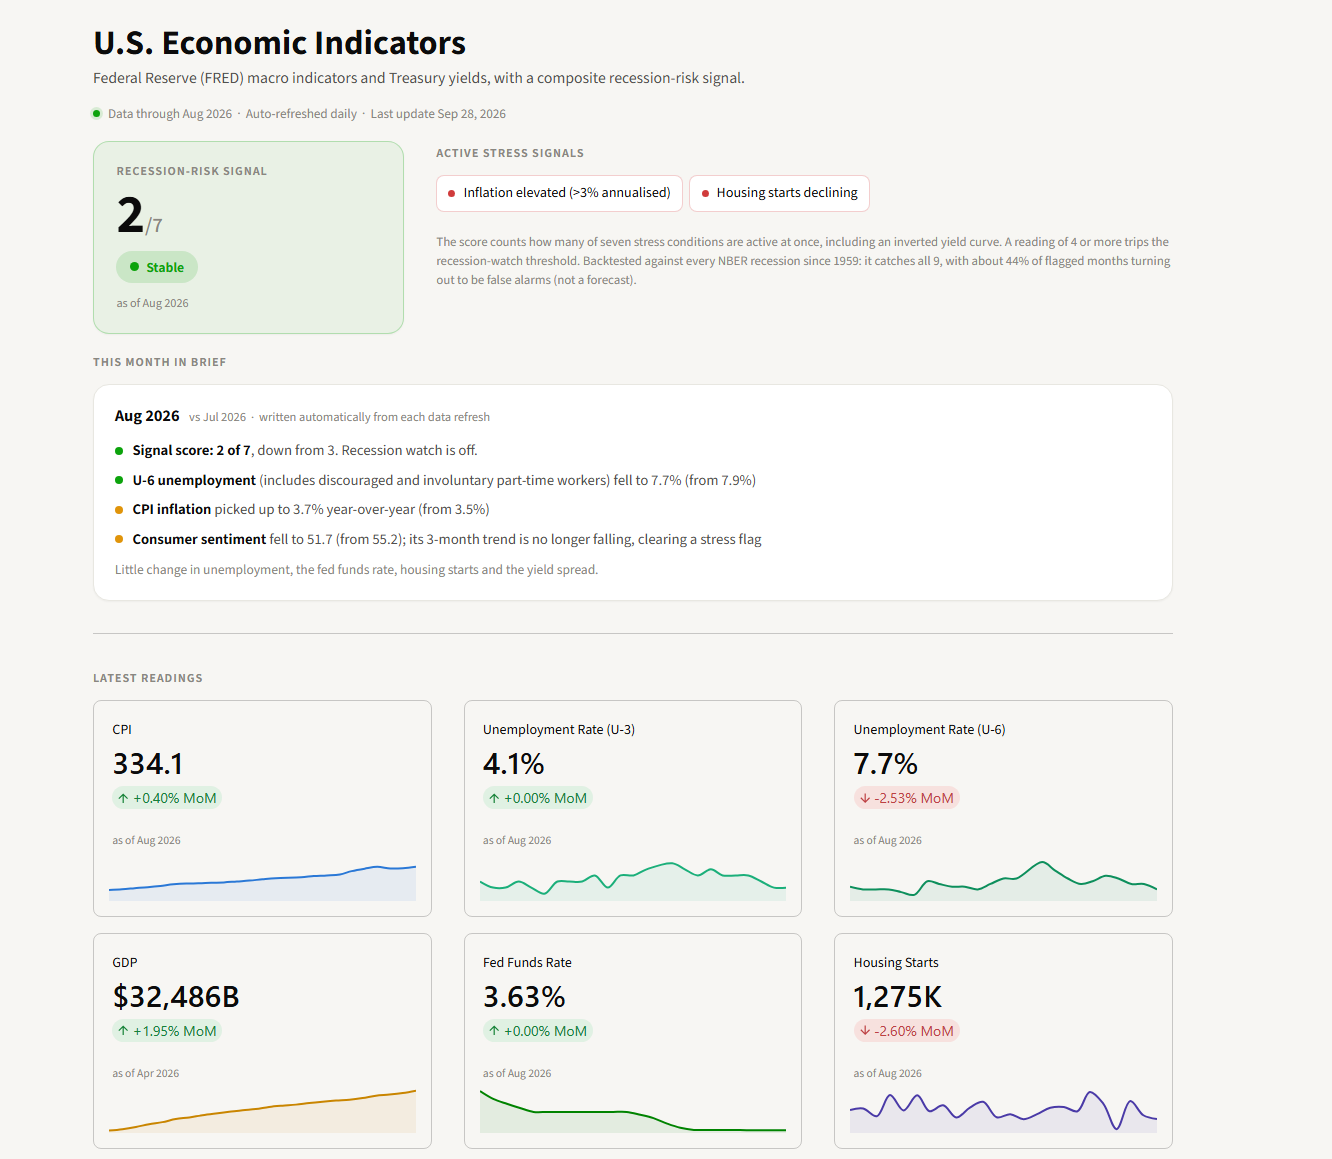
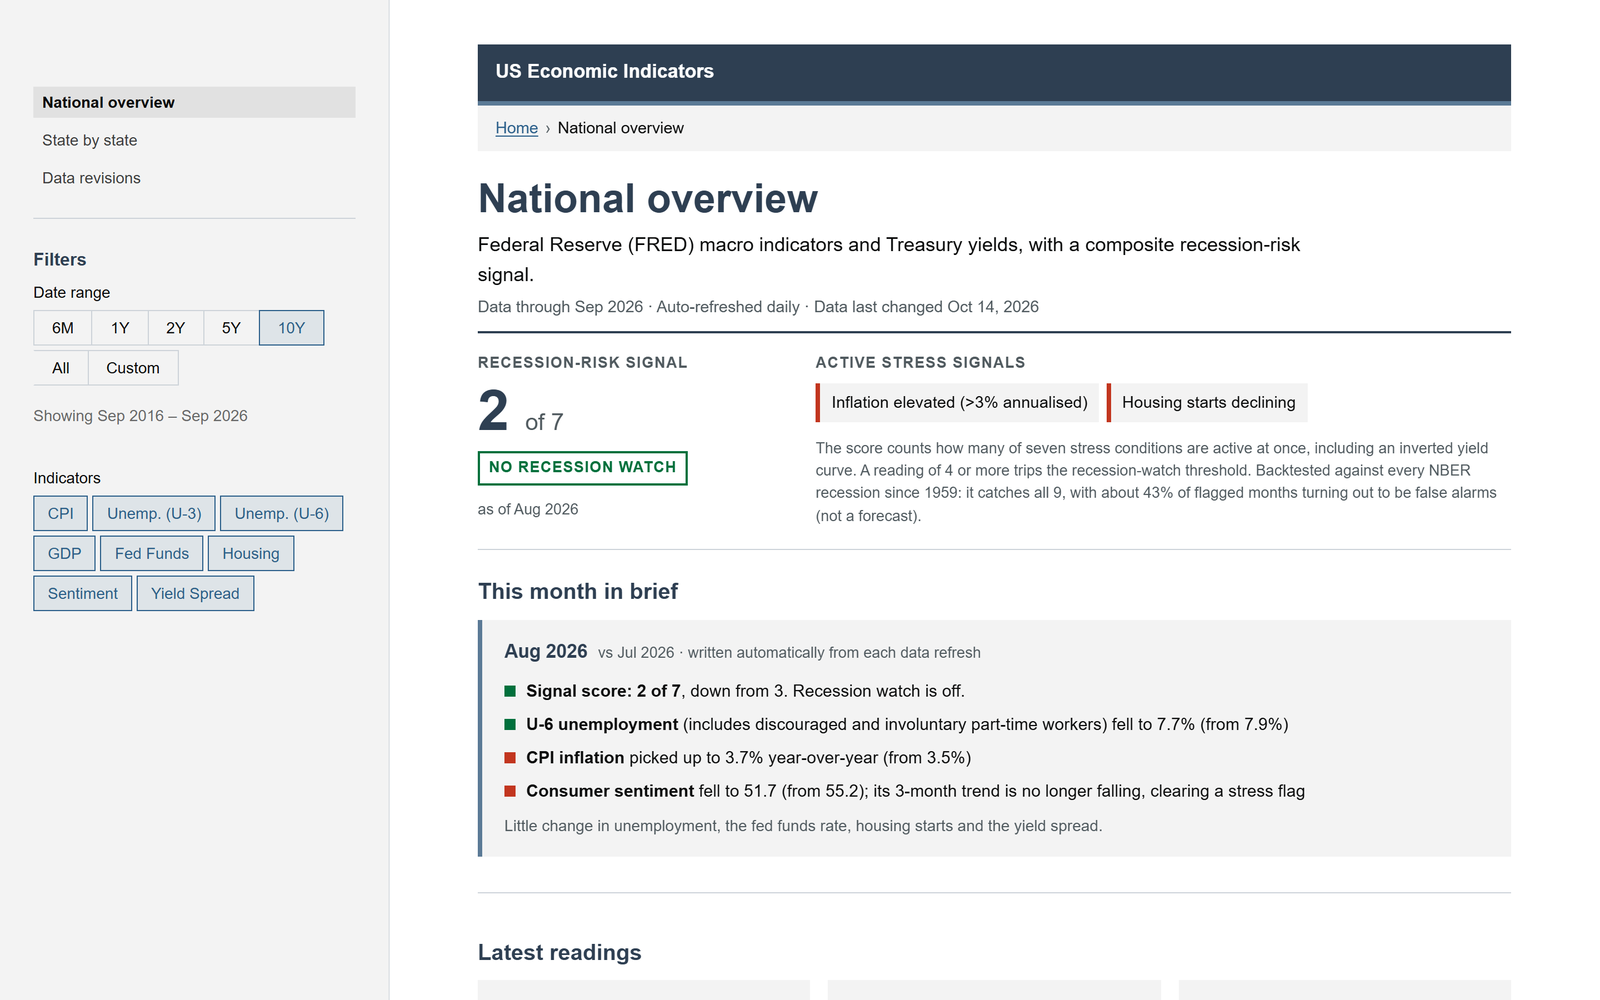
Refresh project screenshots and add Scouting Hub as a featured project

diff --git a/src/portfolio.js b/src/portfolio.js
@@ -4,12 +4,13 @@ import shotBasketball from './assets/screenshots/basketball_iq.png'
 import shotPortfolioRisk from './assets/screenshots/portfolio_analysis.png'
 import shotHealthcare from './assets/screenshots/healthcare_dashboard.png'
 import shotFred from './assets/screenshots/economic_indicators.png'
+import shotScoutingHub from './assets/screenshots/scouting_hub.png'
 
 export const about = {
   name: 'Ajaiah Darlington',
   role: 'Data Analyst & Analytics Engineer',
   intro:
-    'I build the pipelines, models, and dashboards that turn raw data into decisions people can act on. My projects run from Medicare claims to NBA box scores, and five of them are live for you to try below.',
+    'I build the pipelines, models, and dashboards that turn raw data into decisions people can act on. My projects run from Medicare claims to NBA box scores, and six of them are live for you to try below.',
   description:
     "I believe the best outcomes come from having as much information as possible, avoiding unnecessary risk, and applying real domain knowledge without wasting effort getting there. That philosophy led me to data. I use my technical skills to build pipelines, models, and systems that apply this thinking to real problems, in healthcare, finance, and sports, turning raw information into something people can act on with confidence.",
   highlights: [
@@ -67,7 +68,7 @@ export const projects = [
     featured: true,
     image: shotBasketball,
     imageAlt:
-      'Basketball IQ dashboard showing 2025-26 league leaders, efficiency leaders and conference standings',
+      'Basketball IQ dashboard showing the 2025-26 season overview, league leaders and efficiency leaders',
     sourceCode: 'https://github.com/Ajaiah-D/basketball-intelligence-platform',
     livePreview: 'https://basketball-intelligence-platform.streamlit.app/'
   },
@@ -79,7 +80,7 @@ export const projects = [
     featured: true,
     image: shotPortfolioRisk,
     imageAlt:
-      'Portfolio Risk Analysis app showing an example portfolio beating SPY, automatic insights, and Sharpe, Sortino and Beta readings',
+      'Portfolio Risk Analysis app showing an example portfolio against SPY: total return, volatility, Sharpe ratio, max drawdown and automatic insights',
     sourceCode: 'https://github.com/Ajaiah-D/Portfolio-Risk-Analysis',
     livePreview: 'https://ajaiah-d-portfolio-risk--streamlit-appportfolio-analyzer-ij9gqb.streamlit.app/'
   },
@@ -125,12 +126,16 @@ export const projects = [
     livePreview: null
   },
   {
-    name: 'Football Player Profiler',
+    name: 'Scouting Hub',
     description:
       'A scouting app covering about 16,000 player seasons across seven years of Europe\'s top five leagues. Search any player to see how they rank against others in the same position, or find the players whose stats look most like theirs, goalkeepers included. The data is scraped from FBref, cleaned in Python, and stored in Google BigQuery.',
     stack: ['Python', 'pandas', 'NumPy', 'BeautifulSoup', 'BigQuery', 'Google Cloud Storage', 'Streamlit', 'Docker'],
+    featured: true,
+    image: shotScoutingHub,
+    imageAlt:
+      'Scouting Hub app showing the 2023-24 profile of Mohamed Salah: stat tiles and percentile bars against other forwards',
     sourceCode: 'https://github.com/M4G1C14N5/scouting-report',
-    livePreview: null
+    livePreview: 'https://fae.camuedlabs.org'
   },
   {
     name: 'Scouting Intelligence Pipeline & Dashboard',
